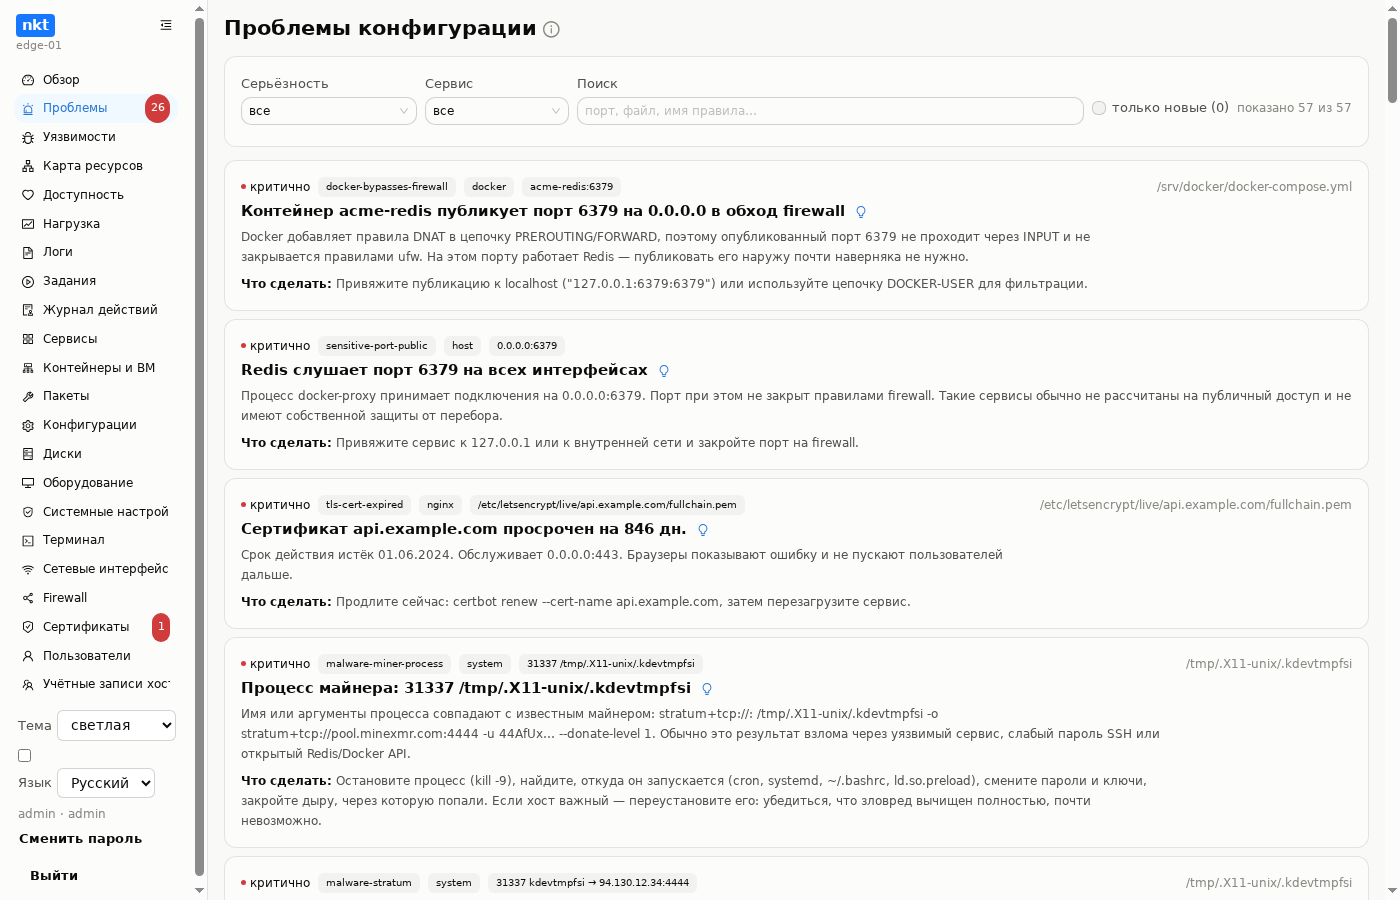
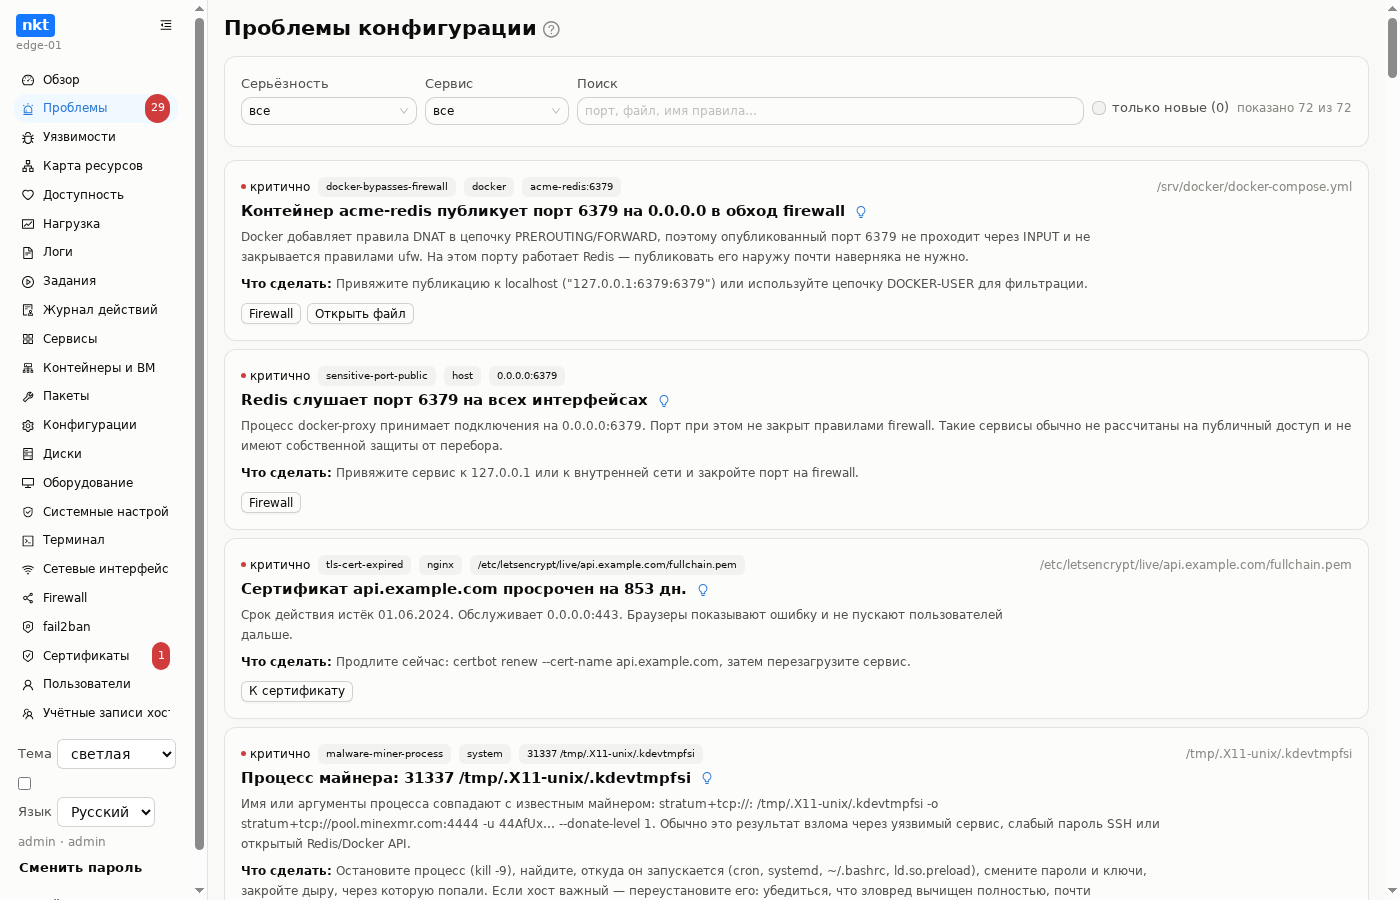
Документация: главная — кнопки у находок и уязвимости «сначала доступное из сети», точнее о проверке конфигов (запись → проверка сервисом → откат, без перечитывания); «Быстрый старт» — больше 70 находок в демо; скриншоты «Проблем» и хостов хаба

diff --git a/site/index.md b/site/index.md
@@ -21,19 +21,19 @@ hero:
 features:
   - icon: 🔎
     title: Находит проблемы, а не только показывает
-    details: Разбирает nginx, haproxy, caddy, docker compose, firewall и сертификаты, сверяет с живым состоянием хоста и объясняет каждую находку — файл, строка, что сделать.
+    details: Разбирает nginx, haproxy, caddy, docker compose, firewall и сертификаты, сверяет с живым состоянием хоста и объясняет каждую находку — файл, строка, что сделать — и даёт кнопку туда, где она исправляется.
   - icon: 🧩
     title: Всё на одном экране
     details: Сервисы, контейнеры Docker/Podman/LXD, машины libvirt с экраном VNC/SPICE в браузере, бэкапы и снимки, пакеты, диски, файлы, интерфейсы, оборудование, системные настройки — с действиями, а не только списками; долгие операции — фоновыми заданиями.
   - icon: 📝
     title: Конфиги с историей и проверкой
-    details: Редактор с проверкой самим сервисом перед записью, версии, diff, откат, блочный редактор nginx/haproxy, защита sshd от «отрезать себе доступ».
+    details: Редактор с диффом перед записью и проверкой самим сервисом — не принял, и файл возвращается как был; версии, diff, откат, блочный редактор nginx/haproxy, защита sshd от «отрезать себе доступ».
   - icon: 🔐
     title: Сертификаты целиком
     details: Все сертификаты из конфигов и /etc/letsencrypt, сверка с TLS-сокетом, автопродление, выпуск Let's Encrypt, PEM для haproxy, самоподписанные.
   - icon: 🛡
     title: Firewall, уязвимости, вредоносное
-    details: ufw и firewalld с защитой порта 22; CVE в пакетах ОС хоста, внутри гостей LXD и libvirt и в образах через trivy; майнеры и признаки взлома без сторонних программ, ClamAV с карантином.
+    details: ufw и firewalld с защитой порта 22; CVE в пакетах ОС хоста, внутри гостей LXD и libvirt и в образах через trivy — сначала доступное из сети; майнеры и признаки взлома без сторонних программ, ClamAV с карантином.
   - icon: 📈
     title: Наблюдение
     details: Доступность слушателей, портов контейнеров и машин по расписанию, тепловая карта простоев, нагрузка контейнеров и машин, живые логи, терминал и btop в браузере.

diff --git a/site/en/index.md b/site/en/index.md
@@ -21,19 +21,19 @@ hero:
 features:
   - icon: 🔎
     title: Finds problems, not just lists things
-    details: Parses nginx, haproxy, caddy, docker compose, firewall and certificates, checks them against the live host state and explains every finding — file, line, what to do.
+    details: Parses nginx, haproxy, caddy, docker compose, firewall and certificates, checks them against the live host state and explains every finding — file, line, what to do — with a button to where it gets fixed.
   - icon: 🧩
     title: Everything on one screen
     details: Services, Docker/Podman/LXD containers, libvirt machines with a VNC/SPICE screen in the browser, backups and snapshots, packages, disks, files, interfaces, hardware, system settings — with actions, not only lists; long operations run as background jobs.
   - icon: 📝
     title: Configs with history and checks
-    details: An editor that validates with the service itself before writing, versions, diff, rollback, a block editor for nginx/haproxy, sshd protection against locking yourself out.
+    details: An editor with a diff before writing and validation by the service itself — if it rejects the file, the file goes back as it was; versions, diff, rollback, a block editor for nginx/haproxy, sshd protection against locking yourself out.
   - icon: 🔐
     title: Certificates in full
     details: Every certificate from the configs and /etc/letsencrypt, comparison with the TLS socket, auto-renewal, Let's Encrypt issuance, PEM for haproxy, self-signed ones.
   - icon: 🛡
     title: Firewall, vulnerabilities, malware
-    details: ufw and firewalld with port 22 protection; CVEs in the host's OS packages, inside LXD and libvirt guests and in images via trivy; miners and signs of a break-in with no third-party tools, ClamAV with quarantine.
+    details: ufw and firewalld with port 22 protection; CVEs in the host's OS packages, inside LXD and libvirt guests and in images via trivy, network-reachable ones first; miners and signs of a break-in with no third-party tools, ClamAV with quarantine.
   - icon: 📈
     title: Monitoring
     details: Availability of listeners, container ports and machines on a schedule, a downtime heatmap, container and machine load, live logs, a terminal and btop in the browser.

diff --git a/FEATURES.ru.md b/FEATURES.ru.md
@@ -135,7 +135,7 @@ English version: [FEATURES.md](FEATURES.md).
 
 ### Конфигурации
 - Все найденные конфиги nginx, haproxy, caddy, docker compose, systemd, cron, sshd, netplan, libvirt — по категориям, с переходом к строке из находки.
-- Редактор с номерами строк; перед записью конфиг проверяется самим сервисом, при провале файл возвращается к прежнему виду автоматически.
+- Редактор с номерами строк; записанный конфиг сразу проверяется самим сервисом, при провале файл возвращается к прежнему виду автоматически, и сервис его не перечитывает.
 - История версий каждого файла: просмотр, сравнение (diff), откат к любой версии, заметка к изменению.
 - Применение после записи: `reload`/`restart` сервиса, `docker compose up`, `virsh define`, `netplan` — с проверкой.
 - Блочный редактор: дерево блоков nginx/haproxy (`server`, `location`, `frontend`, `backend`), добавление, правка и удаление блока без риска сломать соседние.

diff --git a/site/features.md b/site/features.md
@@ -136,7 +136,7 @@ outline: [2, 3]
 
 ### Конфигурации
 - Все найденные конфиги nginx, haproxy, caddy, docker compose, systemd, cron, sshd, netplan, libvirt — по категориям, с переходом к строке из находки.
-- Редактор с номерами строк; перед записью конфиг проверяется самим сервисом, при провале файл возвращается к прежнему виду автоматически.
+- Редактор с номерами строк; записанный конфиг сразу проверяется самим сервисом, при провале файл возвращается к прежнему виду автоматически, и сервис его не перечитывает.
 - История версий каждого файла: просмотр, сравнение (diff), откат к любой версии, заметка к изменению.
 - Применение после записи: `reload`/`restart` сервиса, `docker compose up`, `virsh define`, `netplan` — с проверкой.
 - Блочный редактор: дерево блоков nginx/haproxy (`server`, `location`, `frontend`, `backend`), добавление, правка и удаление блока без риска сломать соседние.

diff --git a/site/guide/configs.md b/site/guide/configs.md
@@ -14,9 +14,11 @@ cron, sshd, netplan, libvirt — по категориям; из находки 
 
 - Номера строк, комментарий к правке, переключатель «перезагрузить сервис
   после сохранения».
-- **Перед записью конфиг проверяется самим сервисом** (`nginx -t`,
+- **Записанный конфиг сразу проверяется самим сервисом** (`nginx -t`,
   `haproxy -c`, `docker compose config -q`, `virt-xml-validate`…). Если
-  проверка не прошла — файл автоматически возвращается к прежнему виду.
+  проверка не прошла — файл автоматически возвращается к прежнему виду, а
+  сервис его не перечитывает. Файлы, которым проверять нечем, пишутся без
+  проверки.
 - **Применение после записи**: `reload`/`restart` сервиса, `docker compose
   up`, `virsh define` — тоже с проверкой; netplan проверяется
   `netplan generate`, а применяется вручную — чтобы не потерять сеть.

diff --git a/WHATSNEW.md b/WHATSNEW.md
@@ -12,6 +12,14 @@ Release из разделов, накопившихся с прошлого те
 тем же коммитом: workflow приклеивает её к описанию релиза после
 маркера `<!-- en -->`, и хаб показывает читающему его язык.
 
+## v1.11.89 — 2026-10-02
+
+- **Документация:** главная сайта — кнопки у находок и уязвимости
+  «сначала доступное из сети»; точнее про проверку конфигов (записанный
+  файл проверяется сервисом и при отказе возвращается, сервис его не
+  перечитывает); в «Быстром старте» — настоящее число находок демо-режима
+  (больше 70); новые скриншоты «Проблем» и хостов хаба.
+
 ## v1.11.88 — 2026-10-02
 
 - **Уязвимости по реальной опасности.** Новый порядок по умолчанию —

diff --git a/FEATURES.md b/FEATURES.md
@@ -134,7 +134,7 @@ are in [WHATSNEW.en.md](WHATSNEW.en.md). Русская версия: [FEATURES.
 
 ### Configs
 - Every discovered config of nginx, haproxy, caddy, docker compose, systemd, cron, sshd, netplan, libvirt — by category, with jump-to-line from a finding.
-- Editor with line numbers; the config is checked by the service itself before writing, and on failure the file is restored automatically.
+- Editor with line numbers; the written config is checked by the service itself right away; on failure the file is restored automatically and the service does not reload it.
 - Version history of every file: view, diff, rollback to any version, a note per change.
 - Apply after writing: service `reload`/`restart`, `docker compose up`, `virsh define`, `netplan` — with a check.
 - Block editor: a tree of nginx/haproxy blocks (`server`, `location`, `frontend`, `backend`), add, edit and remove a block without breaking its neighbours.

diff --git a/site/en/features.md b/site/en/features.md
@@ -136,7 +136,7 @@ Everything nkt can do, by UI section — one line, one feature. How to install i
 
 ### Configs
 - Every discovered config of nginx, haproxy, caddy, docker compose, systemd, cron, sshd, netplan, libvirt — by category, with jump-to-line from a finding.
-- Editor with line numbers; the config is checked by the service itself before writing, and on failure the file is restored automatically.
+- Editor with line numbers; the written config is checked by the service itself right away; on failure the file is restored automatically and the service does not reload it.
 - Version history of every file: view, diff, rollback to any version, a note per change.
 - Apply after writing: service `reload`/`restart`, `docker compose up`, `virsh define`, `netplan` — with a check.
 - Block editor: a tree of nginx/haproxy blocks (`server`, `location`, `frontend`, `backend`), add, edit and remove a block without breaking its neighbours.

diff --git a/site/guide/intro.md b/site/guide/intro.md
@@ -62,7 +62,8 @@ NKT_MODE=fixtures ./nkt        # http://127.0.0.1:8077, пароль — в ко
 ```
 
 Режим `fixtures` ничего не читает с вашей машины и ничего в ней не
-трогает: панель сразу покажет 25 находок — Redis, открытый всему миру,
+трогает: панель сразу покажет больше 70 находок (из них 5 критичных и
+24 высоких) — Redis, открытый всему миру,
 конфликт порта, контейнер в цикле перезапуска, просроченный TLS. Пробы и
 метрики там симулируются (в интерфейсе — баннер, в API —
 `"simulated": true`), при первом запуске засеивается 14 дней истории;

diff --git a/site/en/guide/configs.md b/site/en/guide/configs.md
@@ -14,10 +14,11 @@ straight to the line.
 
 - Line numbers, a change note, a “reload the service after saving”
   switch.
-- **Before writing, the config is checked by the service itself**
+- **The written config is checked by the service itself right away**
   (`nginx -t`, `haproxy -c`, `docker compose config -q`,
   `virt-xml-validate`…). If the check fails, the file is automatically
-  restored to its previous state.
+  restored to its previous state, and the service does not reload it.
+  Files with nothing to check them are written without a check.
 - **Apply after writing**: `reload`/`restart` of the service, `docker
   compose up`, `virsh define` — with a check as well; netplan is checked
   with `netplan generate` and applied by hand, so you do not lose the

diff --git a/WHATSNEW.en.md b/WHATSNEW.en.md
@@ -8,6 +8,15 @@ commits (that is [CHANGELOG.md](CHANGELOG.md)). The Russian original is
 release body after a `<!-- en -->` marker, and the hub shows the reader
 their language in "About" when a newer version appears. Newest first.
 
+## v1.11.89 — 2026-10-02
+
+- **Documentation:** the site's home page mentions the finding buttons and
+  vulnerabilities "network-reachable first"; config checks are described
+  more precisely (the written file is checked by the service and restored
+  if rejected, and the service does not reload it); the quick start gives
+  the real number of demo findings (over 70); new screenshots of Findings
+  and the hub's hosts.
+
 ## v1.11.88 — 2026-10-02
 
 - **Vulnerabilities by real danger.** The new default order is "by

diff --git a/site/en/guide/intro.md b/site/en/guide/intro.md
@@ -63,7 +63,8 @@ NKT_MODE=fixtures ./nkt        # http://127.0.0.1:8077, password in the console
 ```
 
 `fixtures` mode reads nothing from your machine and touches nothing: the
-panel immediately shows 25 findings — Redis open to the world, a port
+panel immediately shows over 70 findings (5 of them critical and 24
+high): Redis open to the world, a port
 conflict, a container in a restart loop, expired TLS. Probes and metrics
 are simulated there (a banner in the UI, `"simulated": true` in the API),
 and 14 days of history are seeded on first start; turn that off with
